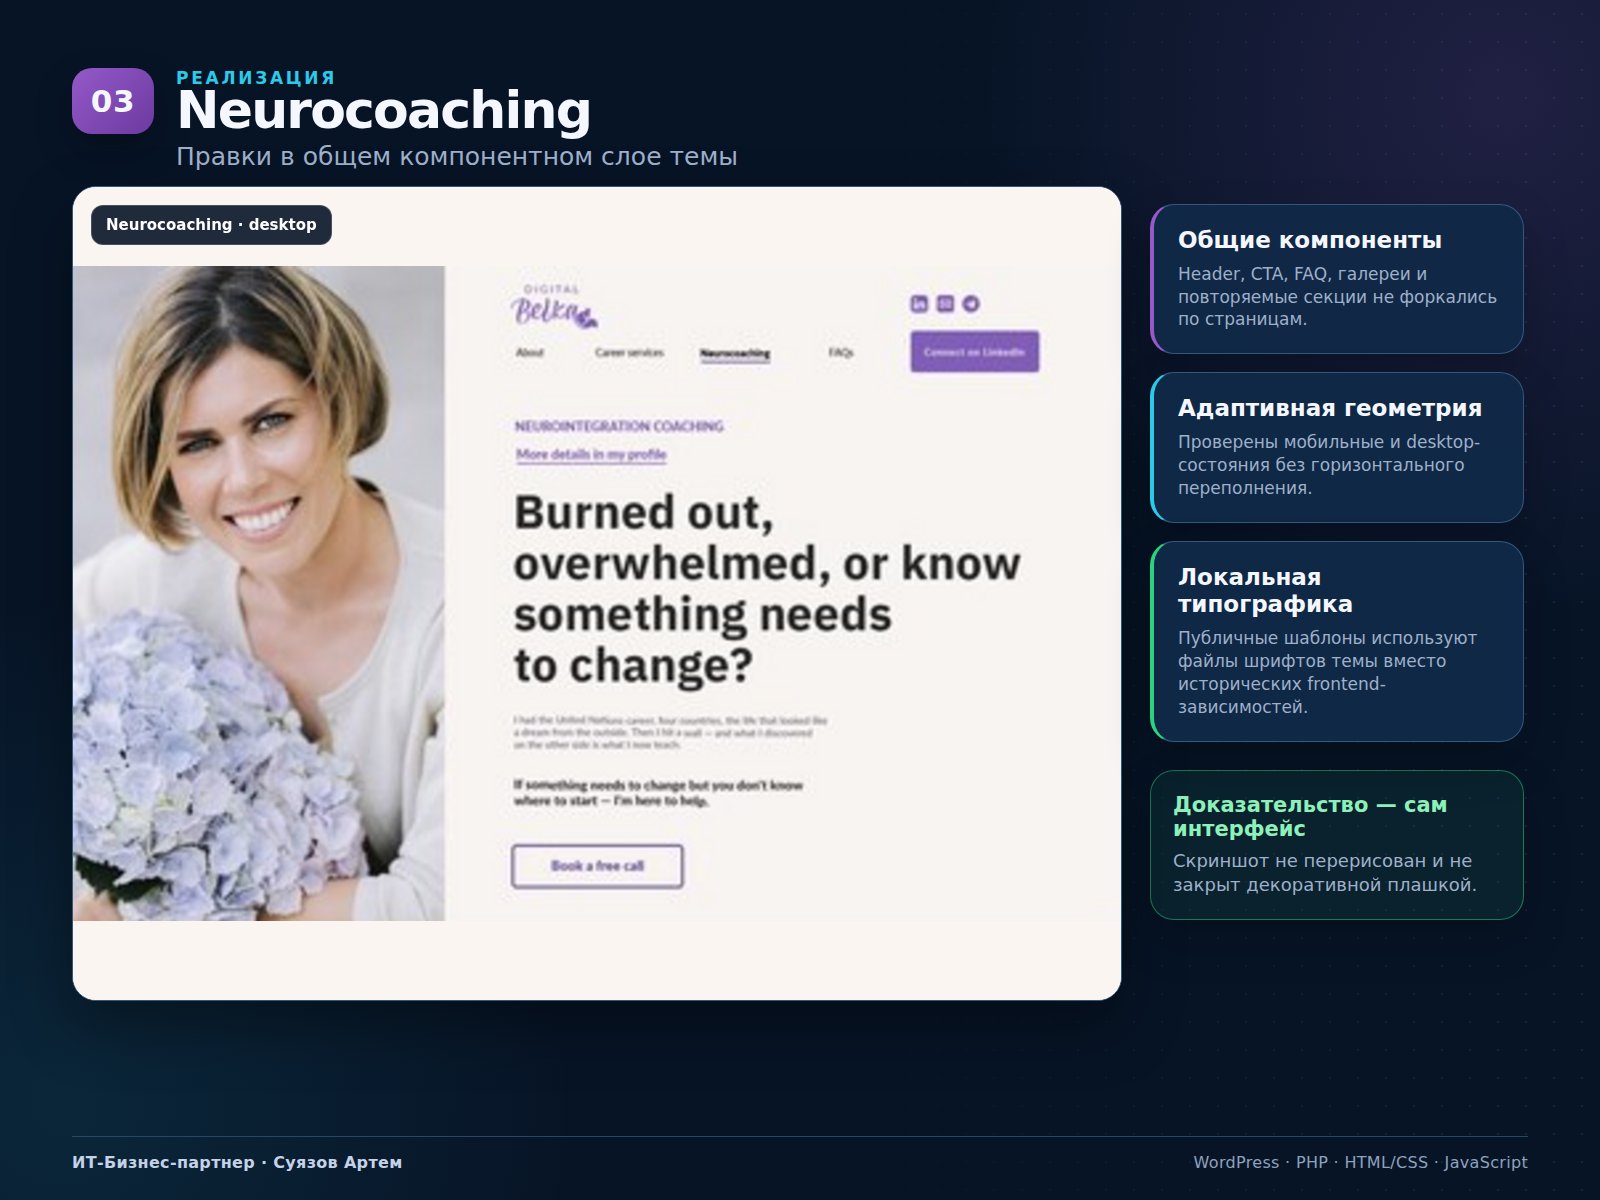
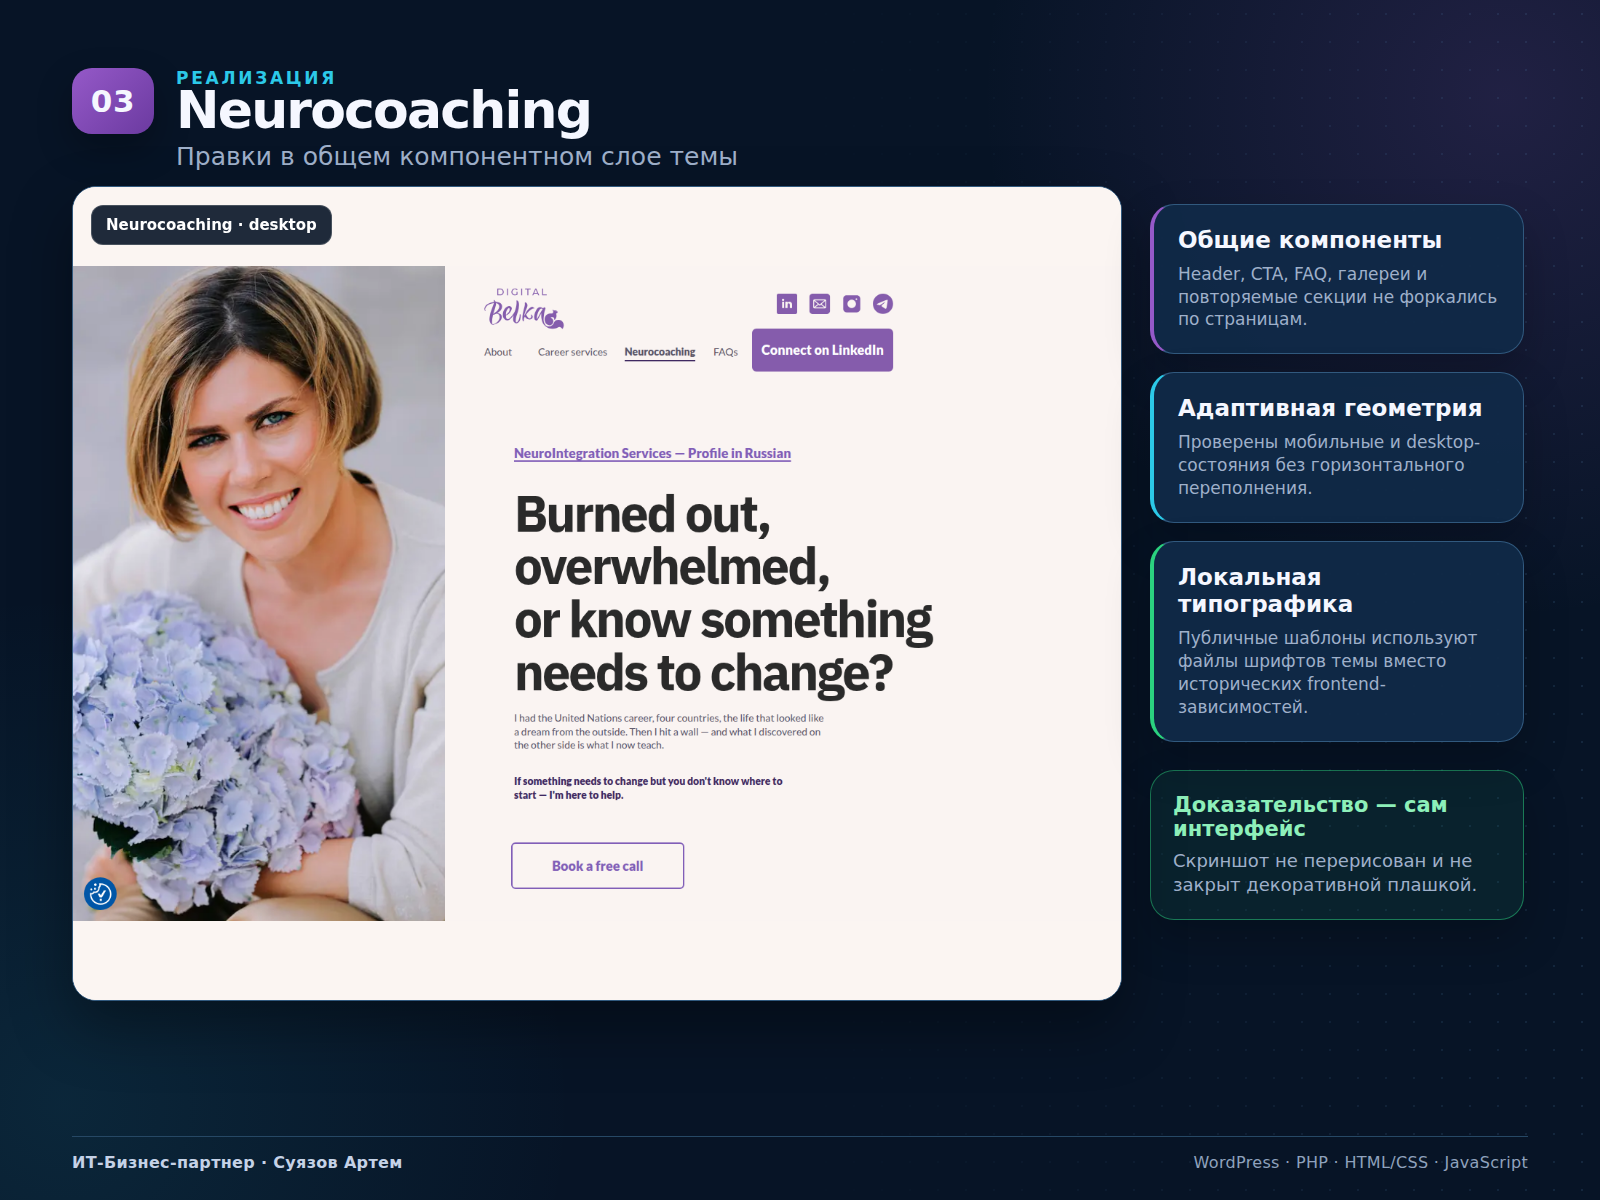
portfolio: use sharp live screenshots for Digital Belka (#197)

Changed region(s): [[0.0312, 0.2158, 0.2812, 0.7708], [0.3125, 0.3392, 0.6562, 0.74], [0.3125, 0.2158, 0.6562, 0.3392]]

diff --git a/docs/portfolio-case/digital-belka-neurocoaching/visuals.html b/docs/portfolio-case/digital-belka-neurocoaching/visuals.html
@@ -129,7 +129,7 @@
   <section class="slide" data-slide="cover">
     <div class="topline"><div class="num">01</div><div><div class="eyebrow">Кейс сайта</div><h1>Digital Belka</h1><div class="subtitle">Поддержка и развитие WordPress-сайта</div></div></div>
     <div class="cover-grid">
-      <div class="screen"><img src="../../../acceptance/visual/about-desktop-1440x900.png" alt="About desktop"><div class="screen-label">digitalbelka.com · About</div></div>
+      <div class="screen"><img src="sources/about-live-1440x900.png" alt="About desktop"><div class="screen-label">digitalbelka.com · About</div></div>
       <div class="cover-side">
         <div class="panel cover-title"><h2>Действующий сайт — системная доработка</h2><p>Не редизайн «с нуля», а аккуратная работа с общей темой, контентом и релизами.</p><div class="cover-tags"><span class="chip"><i></i>WordPress</span><span class="chip"><i></i>PHP</span><span class="chip"><i></i>CSS / JS</span></div></div>
         <div class="panel kpi"><div class="icon">↔</div><div><h2>Адаптивность</h2><p>Mobile и desktop</p></div></div>
@@ -143,7 +143,7 @@
   <section class="slide" data-slide="start">
     <div class="topline"><div class="num">02</div><div><div class="eyebrow">Исходная система</div><h1>Career services</h1><div class="subtitle">Один из трёх ключевых маршрутов сайта</div></div></div>
     <div class="scene-grid">
-      <div class="scene-main"><div class="screen"><img src="../../../acceptance/visual/career-desktop-1440x900.png" alt="Career services desktop"><div class="screen-label">Career services · desktop</div></div><div class="phone"><img src="../../../acceptance/visual/career-mobile-390x844.png" alt="Career services mobile"></div></div>
+      <div class="scene-main"><div class="screen"><img src="sources/career-live-1440x900.png" alt="Career services desktop"><div class="screen-label">Career services · desktop</div></div><div class="phone"><img src="sources/career-live-390x844.png" alt="Career services mobile"></div></div>
       <div class="rail">
         <div class="panel"><div class="step">01 · КОНТЕКСТ</div><strong>Работа внутри существующей темы</strong><span>Сохраняем контент, маршруты и возможность отката.</span></div>
         <div class="panel"><div class="step">02 · ЗАДАЧА</div><strong>Свести desktop и mobile</strong><span>Геометрия, типографика, карточки, CTA и навигация.</span></div>
@@ -156,7 +156,7 @@
   <section class="slide" data-slide="work">
     <div class="topline"><div class="num">03</div><div><div class="eyebrow">Реализация</div><h1>Neurocoaching</h1><div class="subtitle">Правки в общем компонентном слое темы</div></div></div>
     <div class="work-grid">
-      <div class="screen"><img src="../../../acceptance/visual/neurocoaching-desktop-1440x900.png" alt="Neurocoaching desktop"><div class="screen-label">Neurocoaching · desktop</div></div>
+      <div class="screen"><img src="sources/neurocoaching-live-1440x900.png" alt="Neurocoaching desktop"><div class="screen-label">Neurocoaching · desktop</div></div>
       <div class="callouts">
         <div class="panel callout"><b>Общие компоненты</b><span>Header, CTA, FAQ, галереи и повторяемые секции не форкались по страницам.</span></div>
         <div class="panel callout"><b>Адаптивная геометрия</b><span>Проверены мобильные и desktop-состояния без горизонтального переполнения.</span></div>
@@ -170,7 +170,7 @@
   <section class="slide" data-slide="result">
     <div class="topline"><div class="num">04</div><div><div class="eyebrow">Проверенный результат</div><h1>Contact — mobile</h1><div class="subtitle">Отдельная страница и реальное состояние формы</div></div></div>
     <div class="result-grid">
-      <div class="screen result-mobile"><img src="../../qa/full-mobile-20260904/evidence/contact-430.png" alt="Contact mobile"><div class="screen-label">Contact · 430 px</div></div>
+      <div class="screen result-mobile"><img src="sources/contact-live-430x900.png" alt="Contact mobile"><div class="screen-label">Contact · 430 px</div></div>
       <div class="result-side">
         <div class="panel"><div class="icon">↔</div><b>Desktop + mobile</b><span>Ключевые ширины проверялись отдельно, а не по одному макету.</span></div>
         <div class="panel"><div class="icon">☰</div><b>Навигация и формы</b><span>Меню и состояние формы входят в целевой smoke-сценарий.</span></div>
